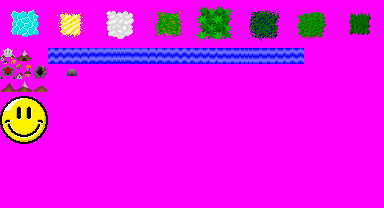
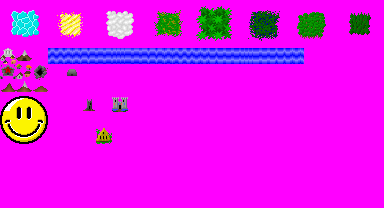
Rebel camp and graphics
New graphics by @fejoa, based on #569.

Changed region(s): [[0.2812, 0.4615, 0.3438, 0.5481], [0.25, 0.6058, 0.3125, 0.6923], [0.2188, 0.4615, 0.25, 0.5481]]

diff --git a/Main/Source/char.cpp b/Main/Source/char.cpp
@@ -5988,8 +5988,10 @@ void character::AddCocaColaConsumeEndMessage() const
 
 void character::ReceiveDarkness(long Amount)
 {
-  // Decreases random attribute.
-  EditExperience(RAND() % BASE_ATTRIBUTES, -Amount, 1 << 14);
+  // A bit of a gum solution, but spiders and frogs are immune to prevent
+  // Lobh-se and dark frogs from poisoning themselves.
+  if(!(IsSpider() || IsFrog()))
+    EditExperience(RAND() % BASE_ATTRIBUTES, -Amount, 1 << 14);
 
   if(IsPlayer())
     game::DoEvilDeed(int(Amount / 50));
@@ -12470,6 +12472,19 @@ truth character::ReceiveSirenSong(character* Siren)
   if(Siren->GetRelation(this) != HOSTILE)
     return false;
 
+  if(RAND_N(GetAttribute(WILL_POWER)) > RAND_N(Siren->GetAttribute(CHARISMA)))
+  {
+    if(IsPlayer())
+      ADD_MESSAGE("The beautiful song of %s makes you feel a little sad.", Siren->CHAR_NAME(DEFINITE));
+    else if(CanBeSeenByPlayer())
+      ADD_MESSAGE("%s sings a beautiful melody.", Siren->CHAR_NAME(DEFINITE));
+    else
+      ADD_MESSAGE("You hear a beautiful song.");
+
+    EditExperience(WILL_POWER, 100, 1 << 12);
+    return false;
+  }
+
   if(!RAND_N(4))
   {
     if(IsPlayer())
@@ -12514,6 +12529,8 @@ truth character::ReceiveSirenSong(character* Siren)
     {
       if(IsPlayer())
         ADD_MESSAGE("You would like to give something to %s.", Siren->CHAR_NAME(DEFINITE));
+      else if(CanBeSeenByPlayer())
+        ADD_MESSAGE("%s looks longingly at %s.", CHAR_NAME(DEFINITE), Siren->CHAR_NAME(DEFINITE));
       else
         ADD_MESSAGE("You hear a beautiful song.");
     }

diff --git a/Main/Include/nonhuman.h b/Main/Include/nonhuman.h
@@ -81,6 +81,7 @@ CHARACTER(nonhumanoid, character)
 CHARACTER(frog, nonhumanoid)
 {
  public:
+  virtual truth IsFrog() const { return true; }
   virtual truth MoveRandomly() { return MoveRandomlyInRoom(); }
 };
 
@@ -383,6 +384,7 @@ CHARACTER(elpuri, largecreature)
   virtual truth SpecialEnemySightedReaction(character*);
   virtual truth MustBeRemovedFromBone() const;
   virtual truth TryToRiseFromTheDead();
+  virtual truth IsFrog() const { return true; }
  protected:
   virtual void GetAICommand();
   virtual void CreateCorpse(lsquare*);

diff --git a/Main/Include/char.h b/Main/Include/char.h
@@ -987,6 +987,7 @@ class character : public entity, public id
   virtual truth CheckIfSatiated() { return GetNP() > SATIATED_LEVEL; }
   virtual void SignalNaturalGeneration() { }
   virtual truth IsBunny() const { return false; }
+  virtual truth IsFrog() const { return false; }
   virtual truth IsSpider() const { return false; }
   void SetConfig(int, int = 0);
   bodypartslot* GetBodyPartSlot(int I) { return &BodyPartSlot[I]; }
